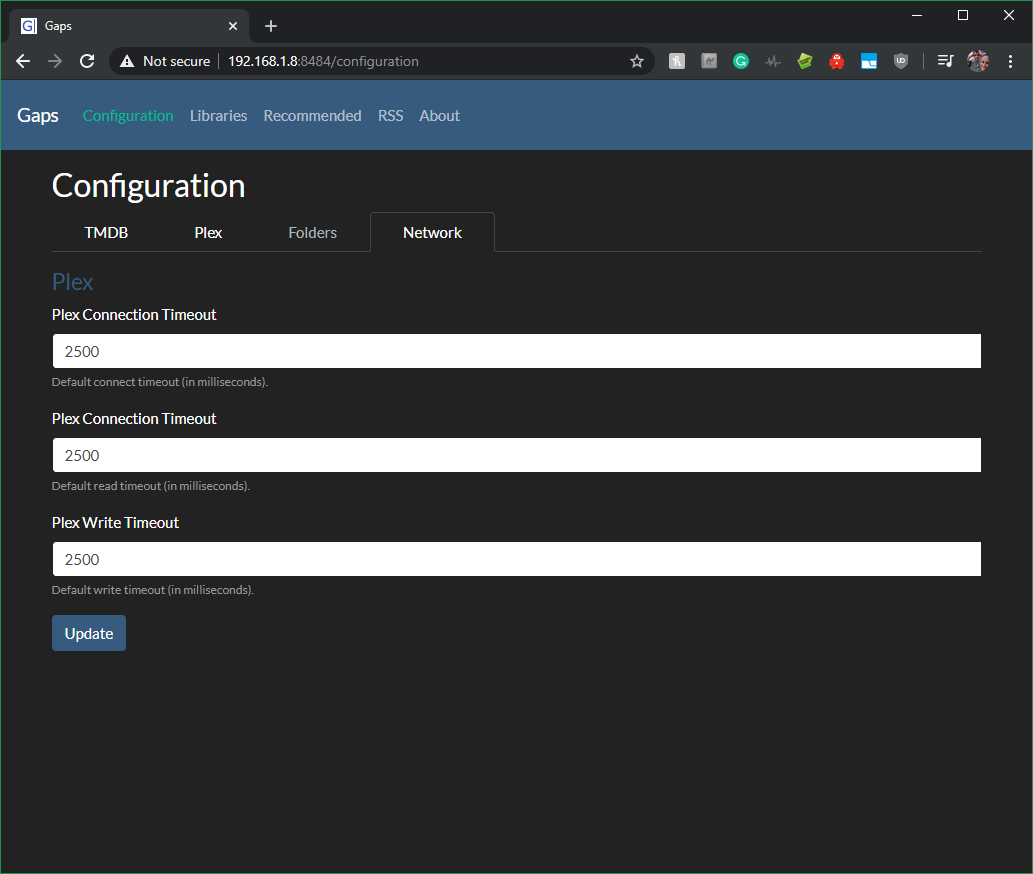
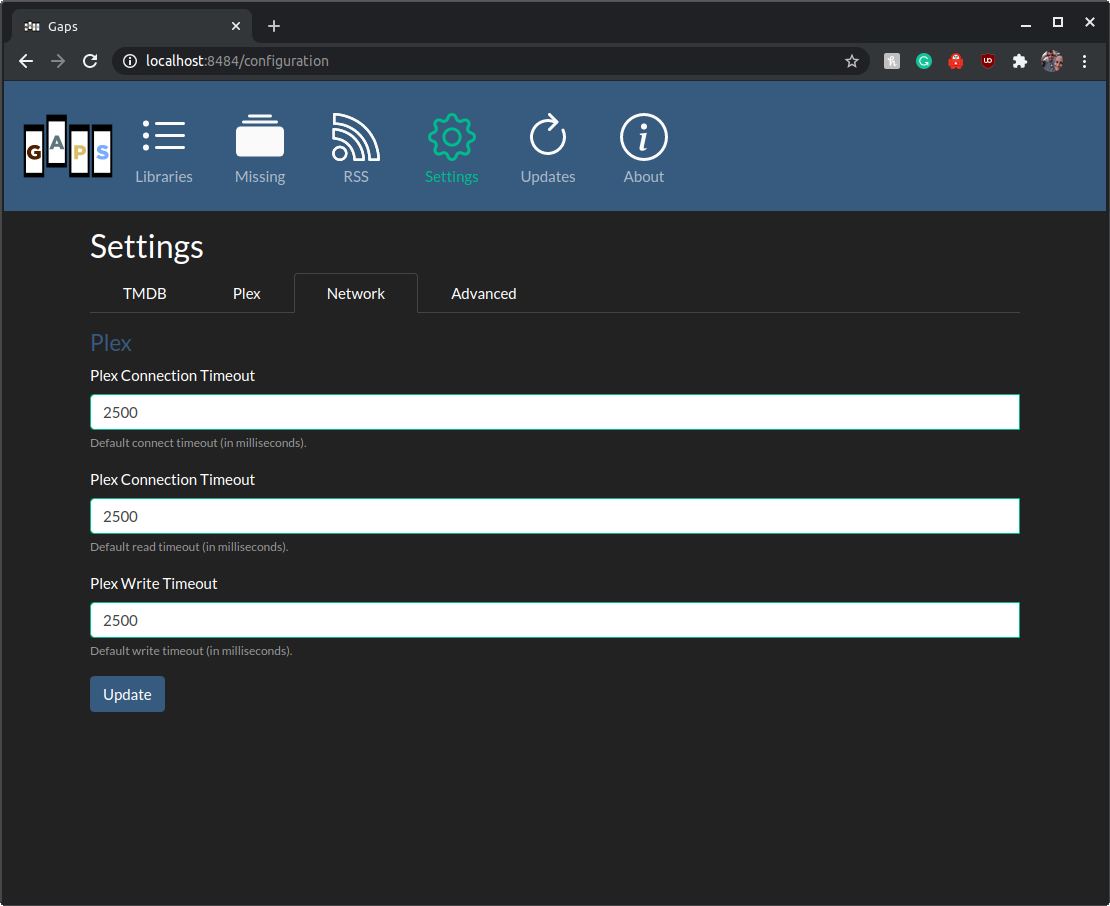
Updating readme and images

diff --git a/README.md b/README.md
@@ -1,74 +1,93 @@
-# Gaps
-Gaps searches through your Plex Server or local folders for all movies, then queries for known movies in the same collection. If those movies don't exist in your library, Gaps will recommend getting those movies, legally of course.
+<p align="center">
+  <a href="" rel="noopener">
+ <img style="background-color: black" width=320px height=180px src="https://github.com/JasonHHouse/gaps/tree/master/images/FinalGAPS.png" alt="Project logo"></a>
+</p>
 
-## Setup
-### Plex
-For Gaps to communicate with Plex you may need to adjust your network settings.
+<h3 align="center">Gaps</h3>
 
-    Network Settings | Secure connections set to Preferred
+<div align="center">
 
-![Plex Settings](images/Gaps_network-settings.png)
+  [![Status](https://img.shields.io/badge/status-active-success.svg)]() 
+  [![GitHub Issues](https://img.shields.io/github/issues/kylelobo/The-Documentation-Compendium.svg)](https://github.com/JasonHHouse/Gaps/issues)
+  [![GitHub Pull Requests](https://img.shields.io/github/issues-pr/kylelobo/The-Documentation-Compendium.svg)](https://github.com/JasonHHouse/Gaps/pulls)
+  [![License](https://img.shields.io/badge/license-MIT-blue.svg)](/LICENSE)
 
-### Docker
+</div>
 
-Gaps runs in [Docker](https://www.docker.com/), so you'll need a basic ability to download and run a container. If you already have Docker, skip to installing and running.
+---
 
-*Underneath the covers, Gaps runs as a Spring Boot app. Don't worry about it though. The container will pull down Java for you and automatically run the jar.* 
+<p align="center"> Gaps searches through your Plex Server or local folders for all movies, then queries for known movies in the same collection. If those movies don't exist in your library, Gaps will recommend getting those movies, legally of course.
+    <br> 
+</p>
 
-Docker has a good write up on installing Docker CE. Check it out [here](https://docs.docker.com/install/). Once you get docker up and running
+## 📝 Table of Contents
+- [About](#about)
+- [Getting Started](#getting_started)
+- [Deployment](#deployment)
+- [Usage](#usage)
+- [Built Using](#built_using)
+- [TODO](../TODO.md)
+- [Contributing](../CONTRIBUTING.md)
+- [Authors](#authors)
+- [Acknowledgments](#acknowledgement)
 
-## Installing and Running
+## 🧐 About <a name = "about"></a>
+Gaps is a FOSS application. An example of Gaps running would be having a copy of 'Alien (1979)' and Gaps recommending 'Aliens (1986)' and 'Alien³ (1992)' to be added to your collection.
 
-With Docker installed, you'll need to now pull down the latest Gaps image. The Gaps image is hosted [here](https://hub.docker.com/r/housewrecker/gaps).
+## 🏁 Getting Started <a name = "getting_started"></a>
+These instructions will get you a copy of the project up and running on your local machine for development and testing purposes. See [deployment](#deployment) for notes on how to deploy the project on a live system.
 
-To pull the image, run the following command in a terminal
+### Prerequisites
+What things you need to install the software and how to install them.
 
-    docker pull housewrecker/gaps
+#### Option 1 
+<code>
+Gaps can run in <a href="https://www.docker.com/">Docker</a>. If you choose to run this way, you'll need a Docker environment installed. Docker has a good write up on installing Docker CE. Check it out <a href="https://docs.docker.com/install/">here</a>. Once you get docker up and running
+</code>
 
-You now have the Gaps image and you need to do a little configuration. The command to run Gaps follows
+#### Option 2
+<code>
+Gaps can run as an exe on Windows. GapsOnWindows can be found on the <a href="https://github.com/JasonHHouse/gaps/releases">releases</a> page. Gaps-{version}.zip.
+</code>
 
-    docker run -d -p 8484:8484 --name mygaps --expose 32400 -v /{localFolder}/gaps:/usr/data housewrecker/gaps:latest
-    
-* For Unraid see the wiki: https://github.com/JasonHHouse/Gaps/wiki
-* For persistent runs when you updated Gaps, it is recommended to set a local folder for gaps to write to
-* For Radarr list import, see https://github.com/JasonHHouse/Gaps/wiki/Radarr-List
-### Important Notes
+### Installing
+With Docker installed, you'll need to now pull down the latest Gaps image. The Gaps image is hosted [here](https://hub.docker.com/r/housewrecker/gaps). To pull the image, run the following command in a terminal
 
-1. -p or publish exposes maps ports from the container to the outside world. Docker has a great write up [here](https://docs.docker.com/config/containers/container-networking/). 
+If you are running an x86 machine, use this command.
 
-    *Note: If 8484 is in use on your system, change the publish command to -p <new available port>:8484*
+```
+docker pull housewrecker/gaps:latest
+```
 
-2. --name mygaps sets the name of the local running container. You can change it to whatever you want, just don't forget the name in the future!
+If you are running an ARM machine, use this command.
 
-3. --expose 32400 is there to communicate with Plex. By default, Plex is set to 32400 by default. If you've changed the port, change that here. 
+```
+docker pull housewrecker/gaps:arm-latest
+```
 
-Once all those values are updated correctly for your system, you can run the command and Gaps will start up.
+With the image pulled, now you can run the container. 
 
-To track the logs from Gaps, use the following command. Again, change the container, if you changed the name.
+_Note: 8484 is used internally by gaps. Externally, any available host port can be used. This can be configured by changing -p {valid port number}:8484_
 
-     docker logs -f mygaps
+```
+docker run -d -p 8484:8484 --name mygaps --expose 32400 -v /{localFolder}/gaps:/usr/data housewrecker/gaps:latest
+```
 
-## Usage
+Open your browser and navigate to, http://{IP_ADDRESS}:8484
 
-To see Gaps, open up your browser and navigate over to the ip address and port you set for Gaps.
+If everything worked, you will be greeted by the gaps home page.
 
-If your browser is on the same machine running Docker and you did not change the port, then you can navigate to
+![Home Page](images/gaps-main.png)
 
-#### HTTPS 
-1. https://{IP_ADDRESS}:8484
-2. https://127.0.0.1:8484
-
-#### HTTP
-1. http://{IP_ADDRESS}:8484
-2. http://127.0.0.1:8484
+## 🎈 Usage <a name="usage"></a>
 
 ### Home Page
 
 ![Home Page](images/gaps-main.png)
 
-Click the *Configuration* tab to set up Gaps. 
+Click the *Settings* tab to set up Gaps. 
 
-### Configuration
+### Settings
 
 #### TMDB
 
@@ -136,7 +155,7 @@ Gaps will display the movies found in the Plex Server Library.
 
 Click the *Recommended* tab to set up Gaps.
 
-### Recommended
+### Missing
 Once you've started searching, the movies will start populating on the final page.
 
 ![Gap Not Searched Missing Movies Yet](images/recommended-empty.png) 
@@ -145,7 +164,7 @@ Click the *Search* button find your missing movies.
 
 ![Gaps Recommended Movies](images/recommended.png) 
 
-For large libraries, this can take a while to run. The results are stored and only need to be rerun when Plex is updated. Missing movies are added as found. Do not navigate away. Gaps will still run but you'll have to check logs to know when it is complete. It is currently easier to just leave the page open. Fixes for this are coming soon.
+For large libraries, this can take a while to run. The results are stored and only need to be rerun when Plex updates. Missing movies are added as found. Do not navigate away. Gaps will still run but you'll have to check logs to know when it is complete. It is currently easier to just leave the page open. Fixes for this are coming soon.
 
 ### Recommended and RSS
 
@@ -153,12 +172,16 @@ For large libraries, this can take a while to run. The results are stored and on
 
 Once you've completed at least one search of your plex libraries, you can then view and use the output as RSS.
 
-## License
-Copyright 2019 Jason H House
+## ⛏ Built Using <a name = "built_using"></a>
+- [jQuery](https://jquery.com/) - JS Framework
+- [Bootstrap](https://getbootstrap.com/) - UI Framework
+- [Spring Boot](https://spring.io/projects/spring-boot) - Server Framework
+- [NodeJs](https://nodejs.org/en/) - Testing and Build Environment
 
-Permission is hereby granted, free of charge, to any person obtaining a copy of this software and associated documentation files (the "Software"), to deal in the Software without restriction, including without limitation the rights to use, copy, modify, merge, publish, distribute, sublicense, and/or sell copies of the Software, and to permit persons to whom the Software is furnished to do so, subject to the following conditions:
+## ✍ Authors <a name = "authors"></a>
+- [@JasonHHouse](https://github.com/JasonHHouse) - Idea & Initial work
 
-The above copyright notice and this permission notice shall be included in all copies or substantial portions of the Software.
-
-THE SOFTWARE IS PROVIDED "AS IS", WITHOUT WARRANTY OF ANY KIND, EXPRESS OR IMPLIED, INCLUDING BUT NOT LIMITED TO THE WARRANTIES OF MERCHANTABILITY, FITNESS FOR A PARTICULAR PURPOSE AND NONINFRINGEMENT. IN NO EVENT SHALL THE AUTHORS OR COPYRIGHT HOLDERS BE LIABLE FOR ANY CLAIM, DAMAGES OR OTHER LIABILITY, WHETHER IN AN ACTION OF CONTRACT, TORT OR OTHERWISE, ARISING FROM, OUT OF OR IN CONNECTION WITH THE SOFTWARE OR THE USE OR OTHER DEALINGS IN THE SOFTWARE.
-
+## 🎉 Acknowledgements <a name = "acknowledgement"></a>
+- [@Knoxie](https://github.com/knoxie) Developer, testing, and support
+- Inspiration
+    - A missing feature from Plex
